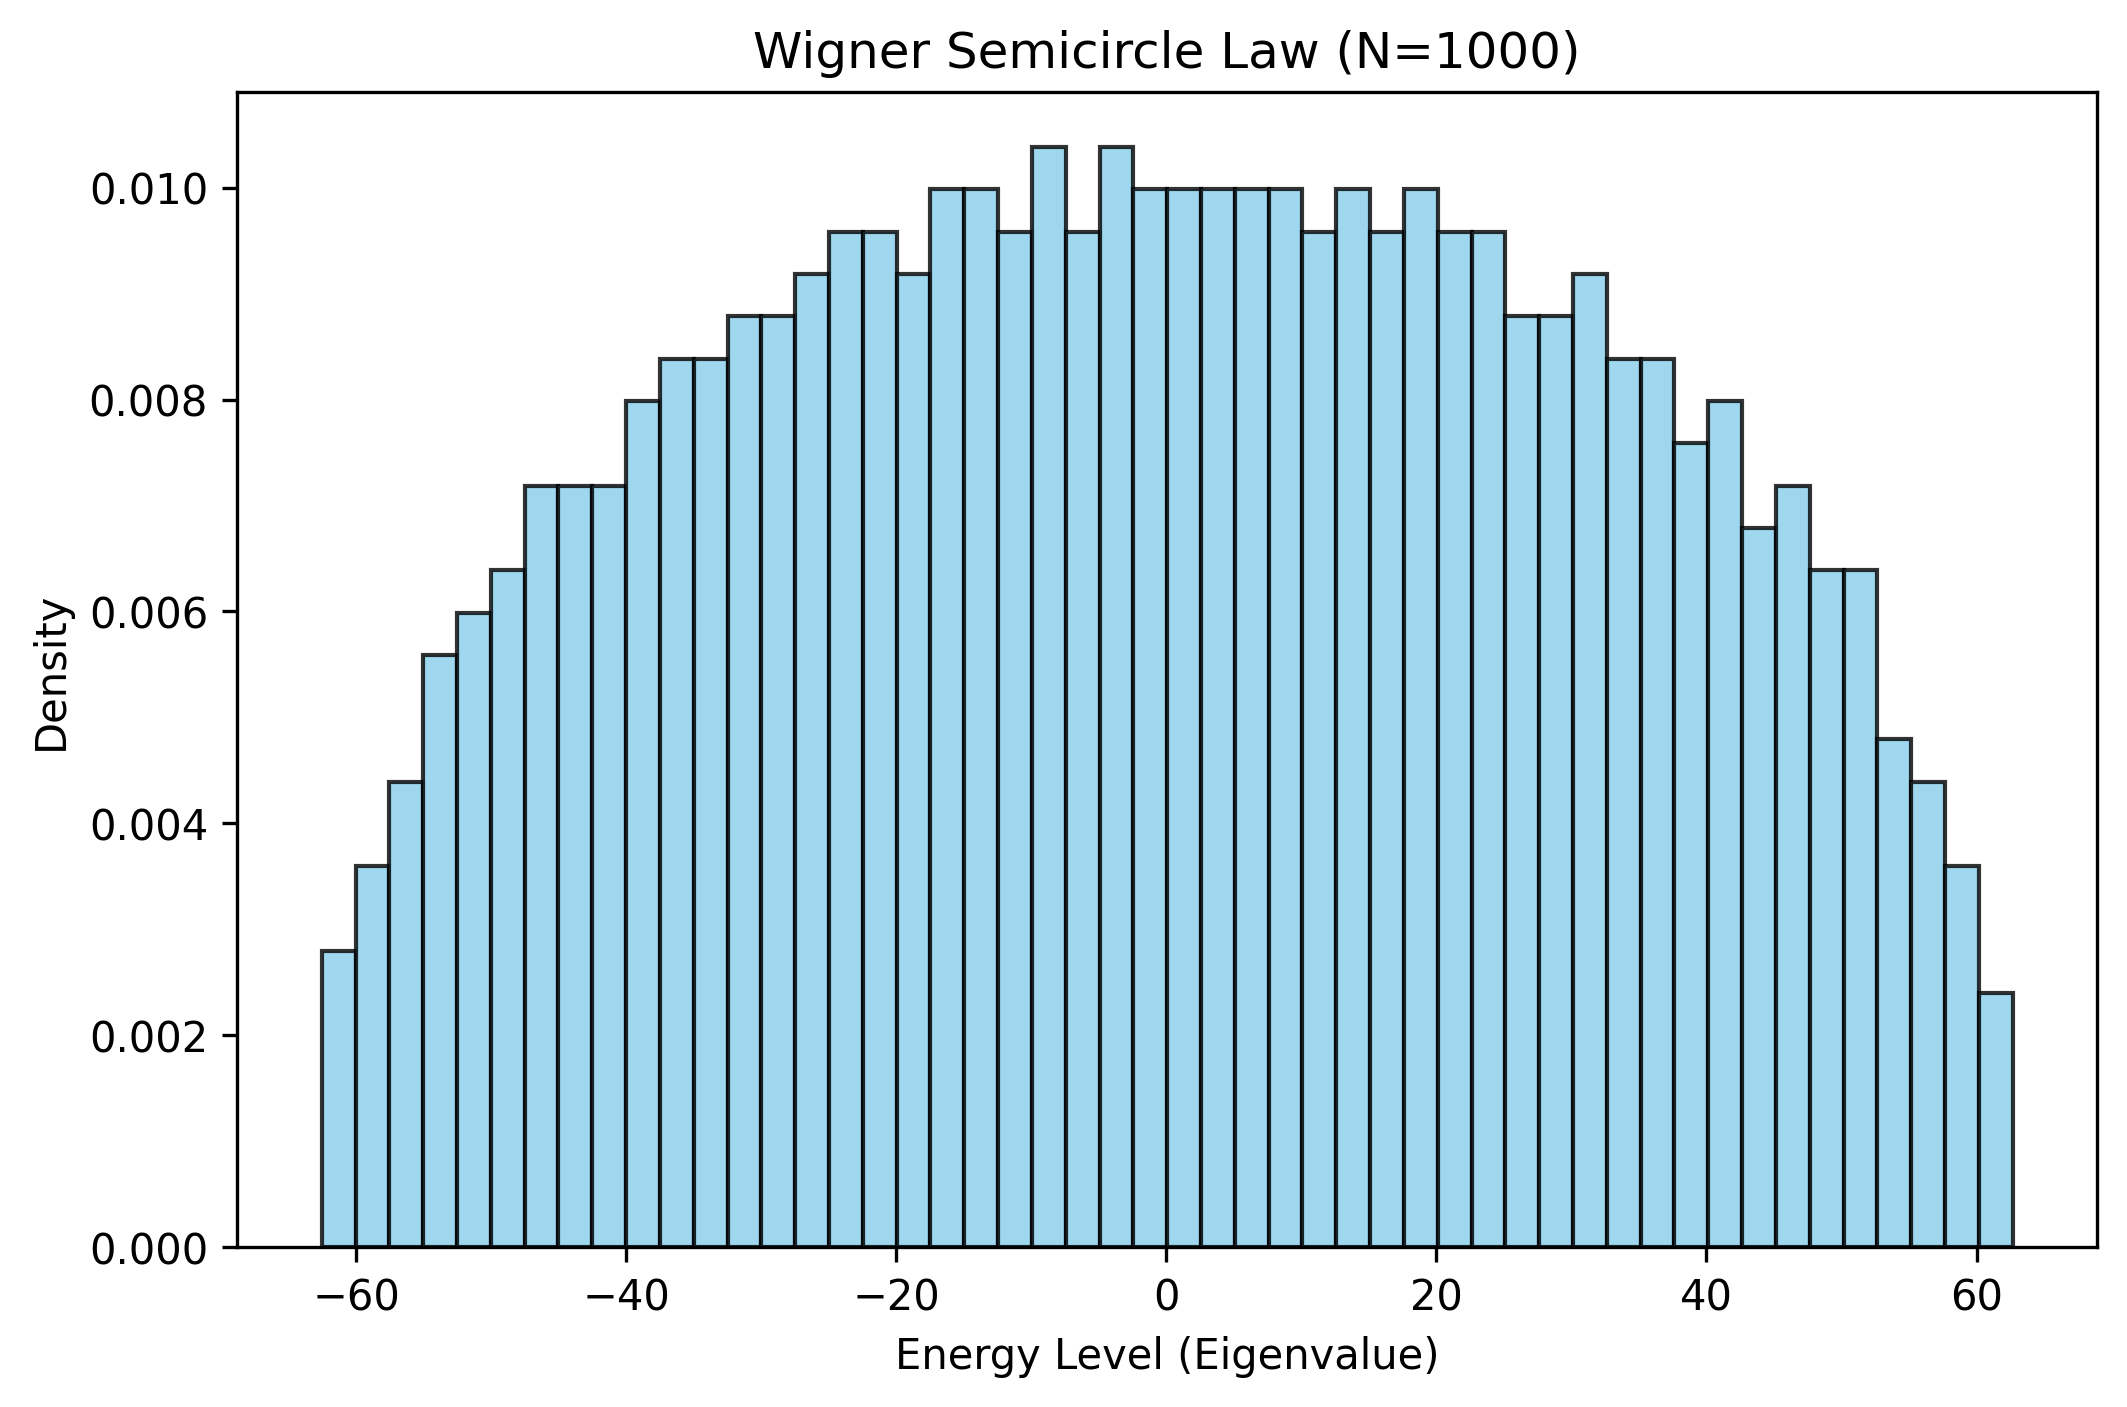
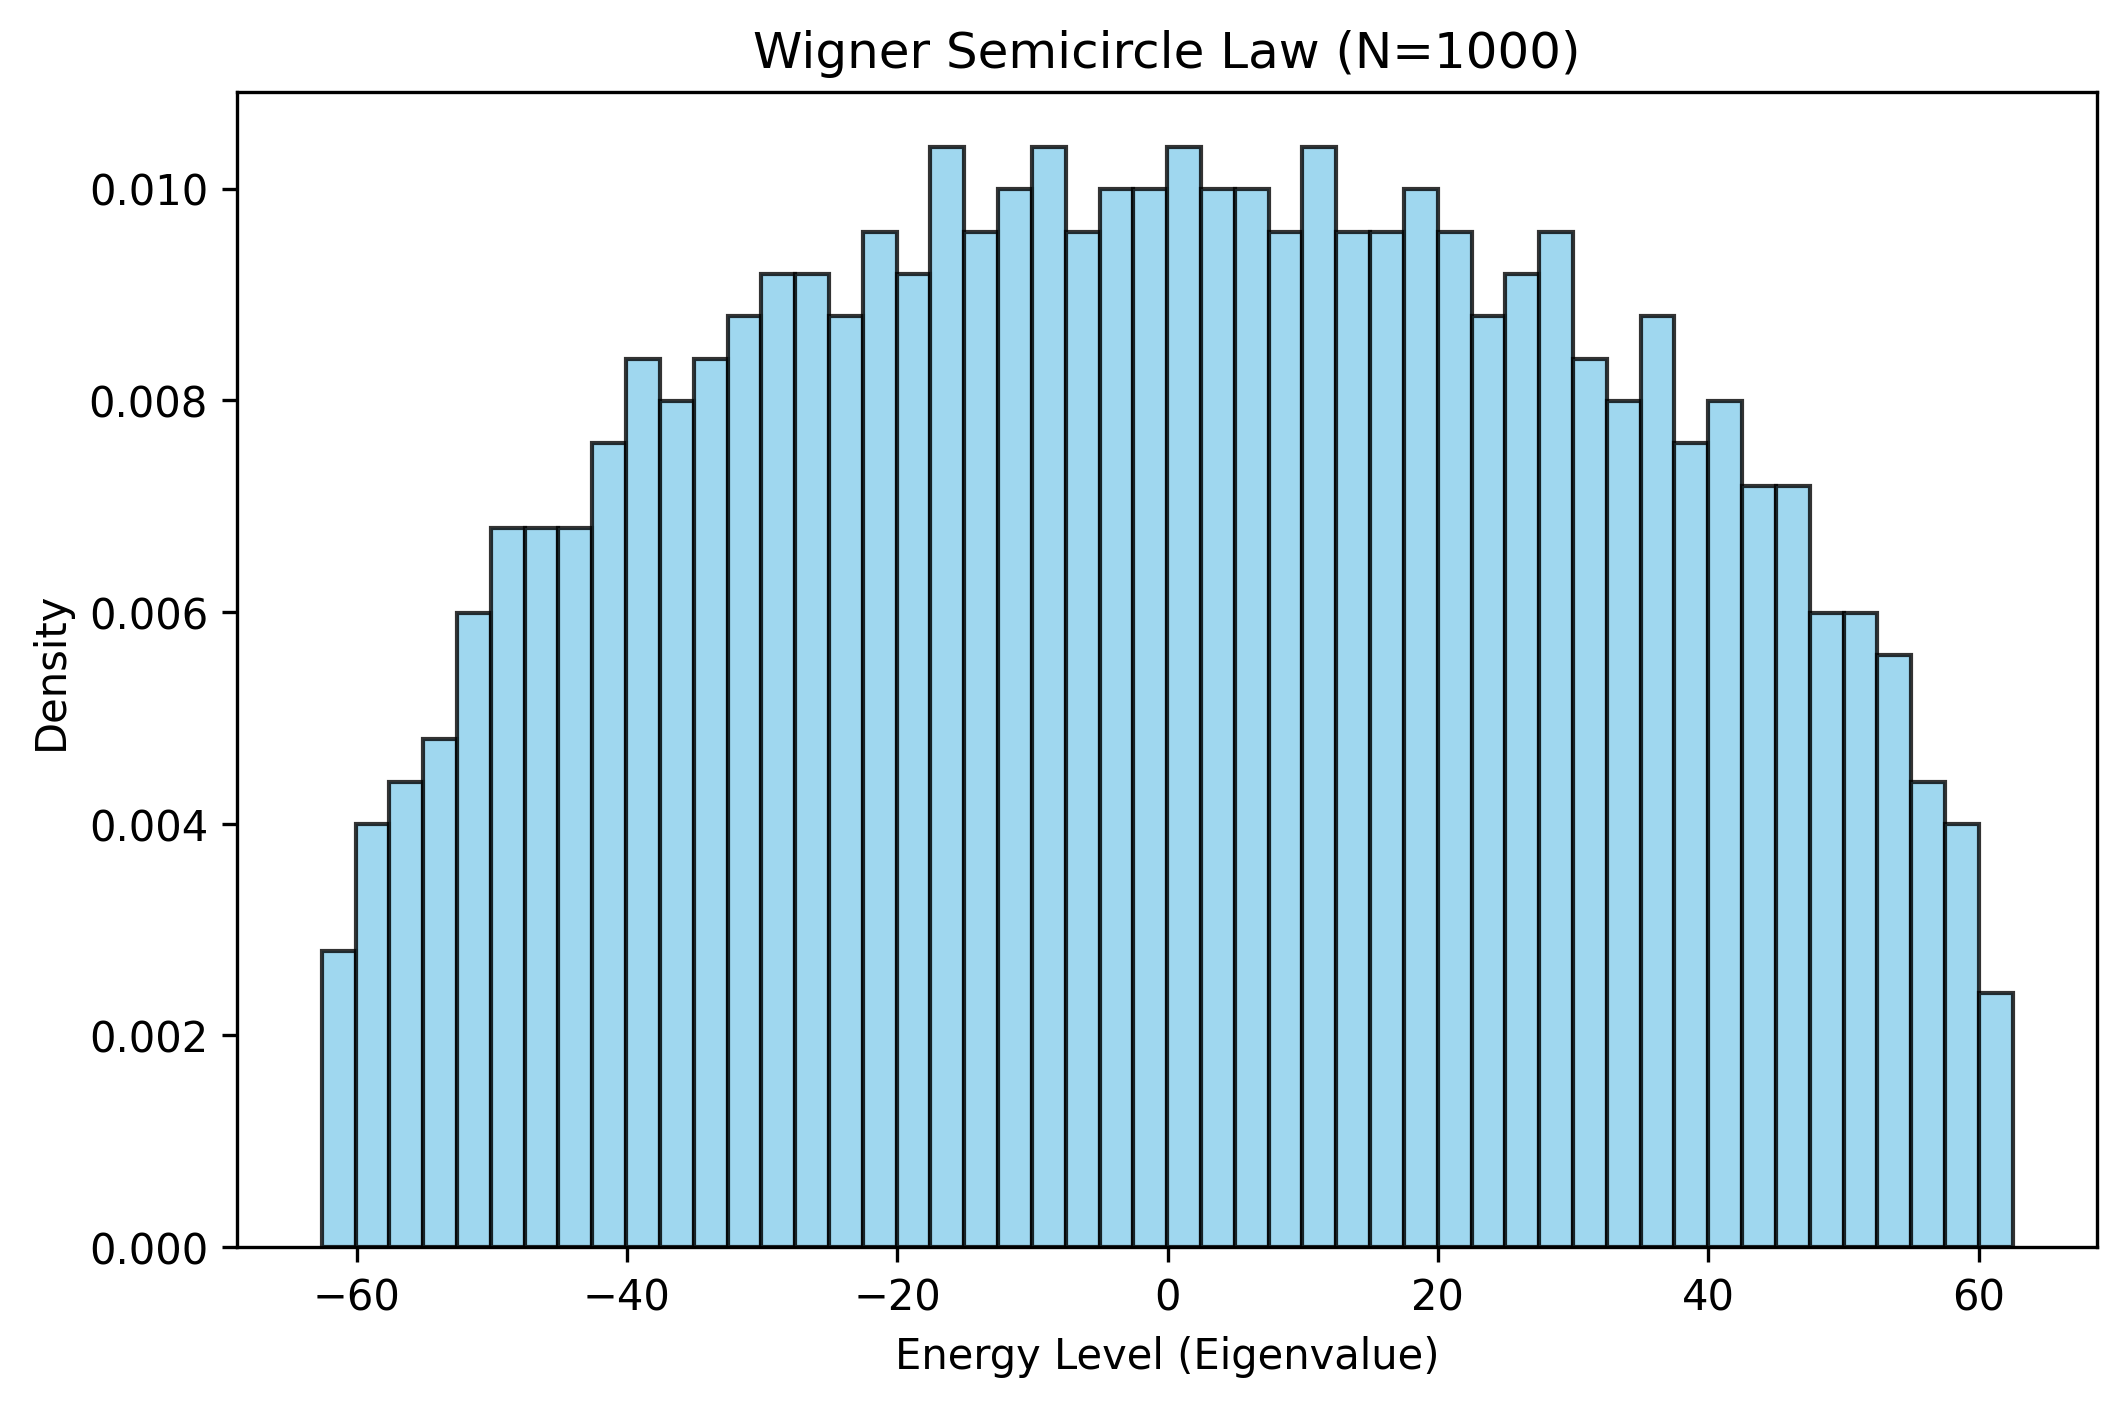
Mathematics data ready + unfolding riemann OK

diff --git a/mathematics/riemann_data.py b/mathematics/riemann_data.py
@@ -1,20 +1,13 @@
 import os
 import numpy as np
+import matplotlib.pyplot as plt
 
 def load_riemann_zeros(filepath):
     """
     Loads the Riemann Zeta zeros from a text file.
-    
-    Parameters:
-    filepath (str): Path to the text file containing the zeros.
-    
-    Returns:
-    numpy.ndarray: Array of the zeros' heights (gamma values).
     """
     print(f"Loading data from {filepath}...")
-    
     try:
-        # np.loadtxt is perfect for reading columns of numbers in text files
         zeros = np.loadtxt(filepath)
         return zeros
     except FileNotFoundError:
@@ -22,9 +15,17 @@ def load_riemann_zeros(filepath):
         print("Please make sure you downloaded it and put it in the 'data' folder.")
         return None
 
+def unfold_riemann_zeros(gamma_array):
+    """
+    Unfolds the Riemann zeros using the leading asymptotic term of the counting function N(T).
+    """
+    unfolded = (gamma_array / (2 * np.pi)) * (np.log(gamma_array / (2 * np.pi)) - 1)
+    return unfolded
+
+
 if __name__ == "__main__":
-    # Define the path to our newly downloaded file
-    data_path = os.path.join("data", "zeros_100k.txt")
+    # Define the path to our downloaded file (remonter d'un dossier depuis 'mathematics')
+    data_path = os.path.join("../data", "zeros_100k.txt")
     
     # Load the zeros
     riemann_zeros = load_riemann_zeros(data_path)
@@ -34,6 +35,28 @@ if __name__ == "__main__":
         print(f"\nSuccess! Loaded {num_zeros} Riemann zeros.")
         
         # Physics / Math check: The first zero should be around 14.1347
-        print("\n--- The First 5 Zeros ---")
-        for i in range(5):
-            print(f"Zero {i+1}: {riemann_zeros[i]:.4f}")
+        print(f"First zero: {riemann_zeros[0]:.4f}")
+
+        # === L'UNFOLDING ===
+        unfolded_zeros = unfold_riemann_zeros(riemann_zeros)
+        unfolded_spacings = np.diff(unfolded_zeros)
+        
+        mean_spacing = np.mean(unfolded_spacings)
+        print(f"\nMean spacing of the unfolded zeros: {mean_spacing:.4f} (Theoretical = 1.0000)")
+
+        # === AFFICHAGE ===
+        output_dir = "graph" # On pointe vers le dossier global
+        os.makedirs(output_dir, exist_ok=True)
+
+        plt.figure(figsize=(8, 5))
+        plt.hist(unfolded_spacings, bins=50, range=(0, 4), density=True, color='mediumseagreen', edgecolor='black', alpha=0.8)
+        
+        # Titres adaptés aux mathématiques
+        plt.title("Riemann Zeros: Spacing Distribution")
+        plt.xlabel("Spacing (s) between adjacent zeros")
+        plt.ylabel("Probability Density")
+        
+        surmise_path = os.path.join(output_dir, "riemann_surmise.png")
+        plt.savefig(surmise_path, dpi=300, bbox_inches='tight')
+        print(f"Level repulsion plot saved to '{surmise_path}'")
+        plt.close()
